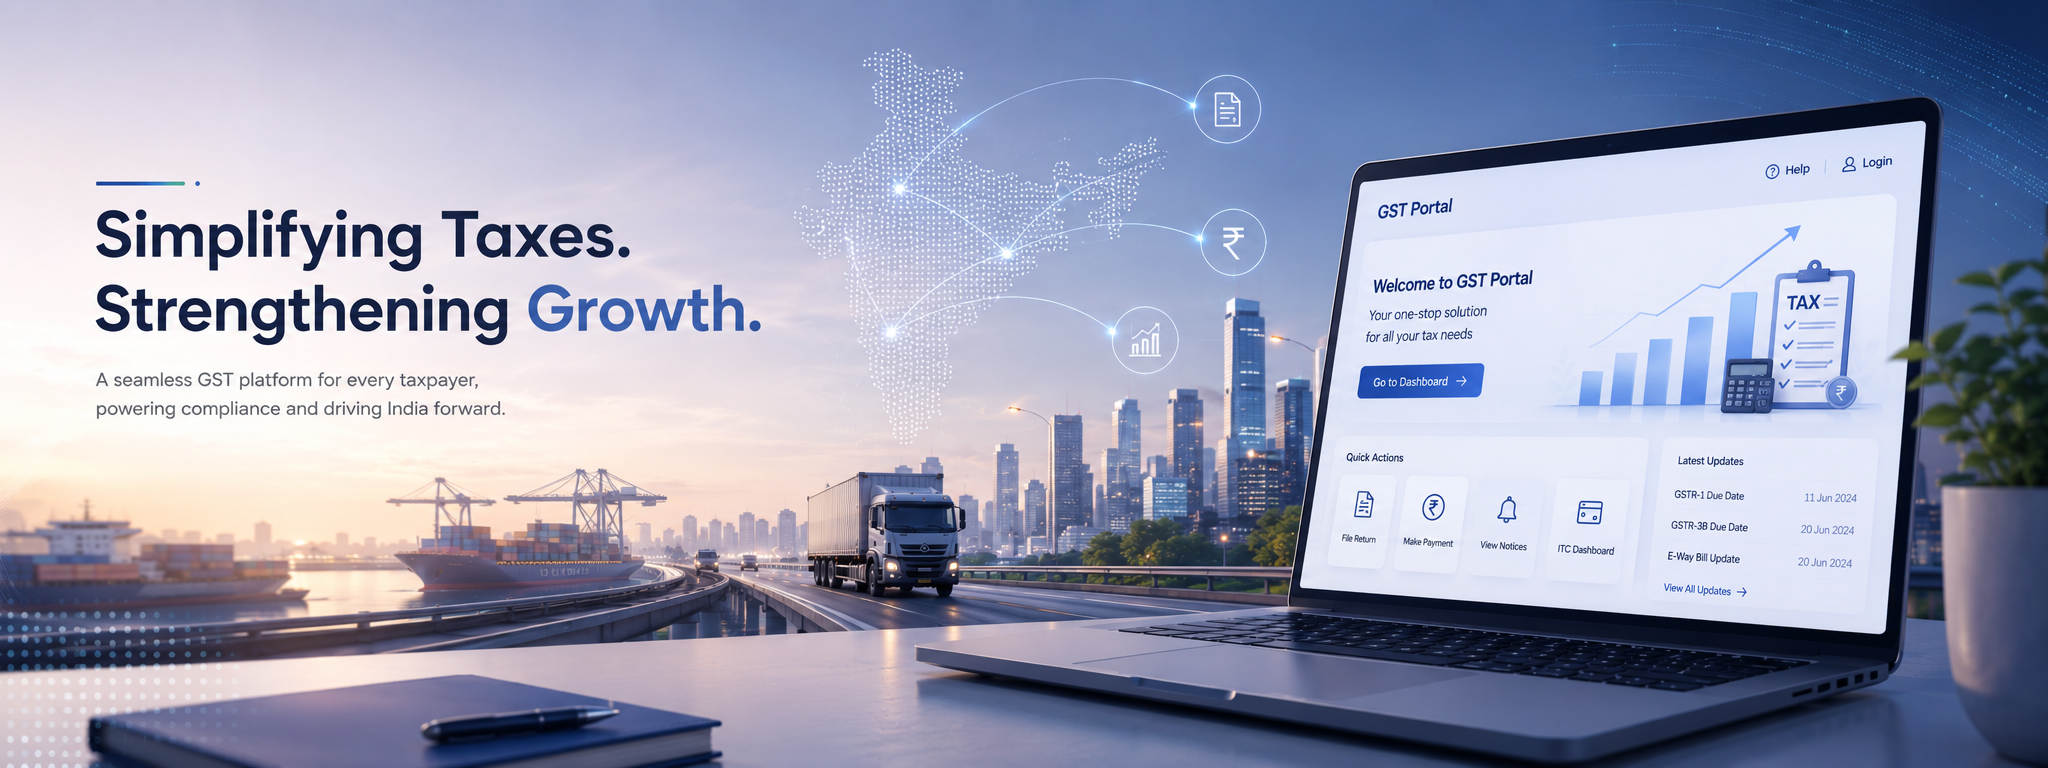
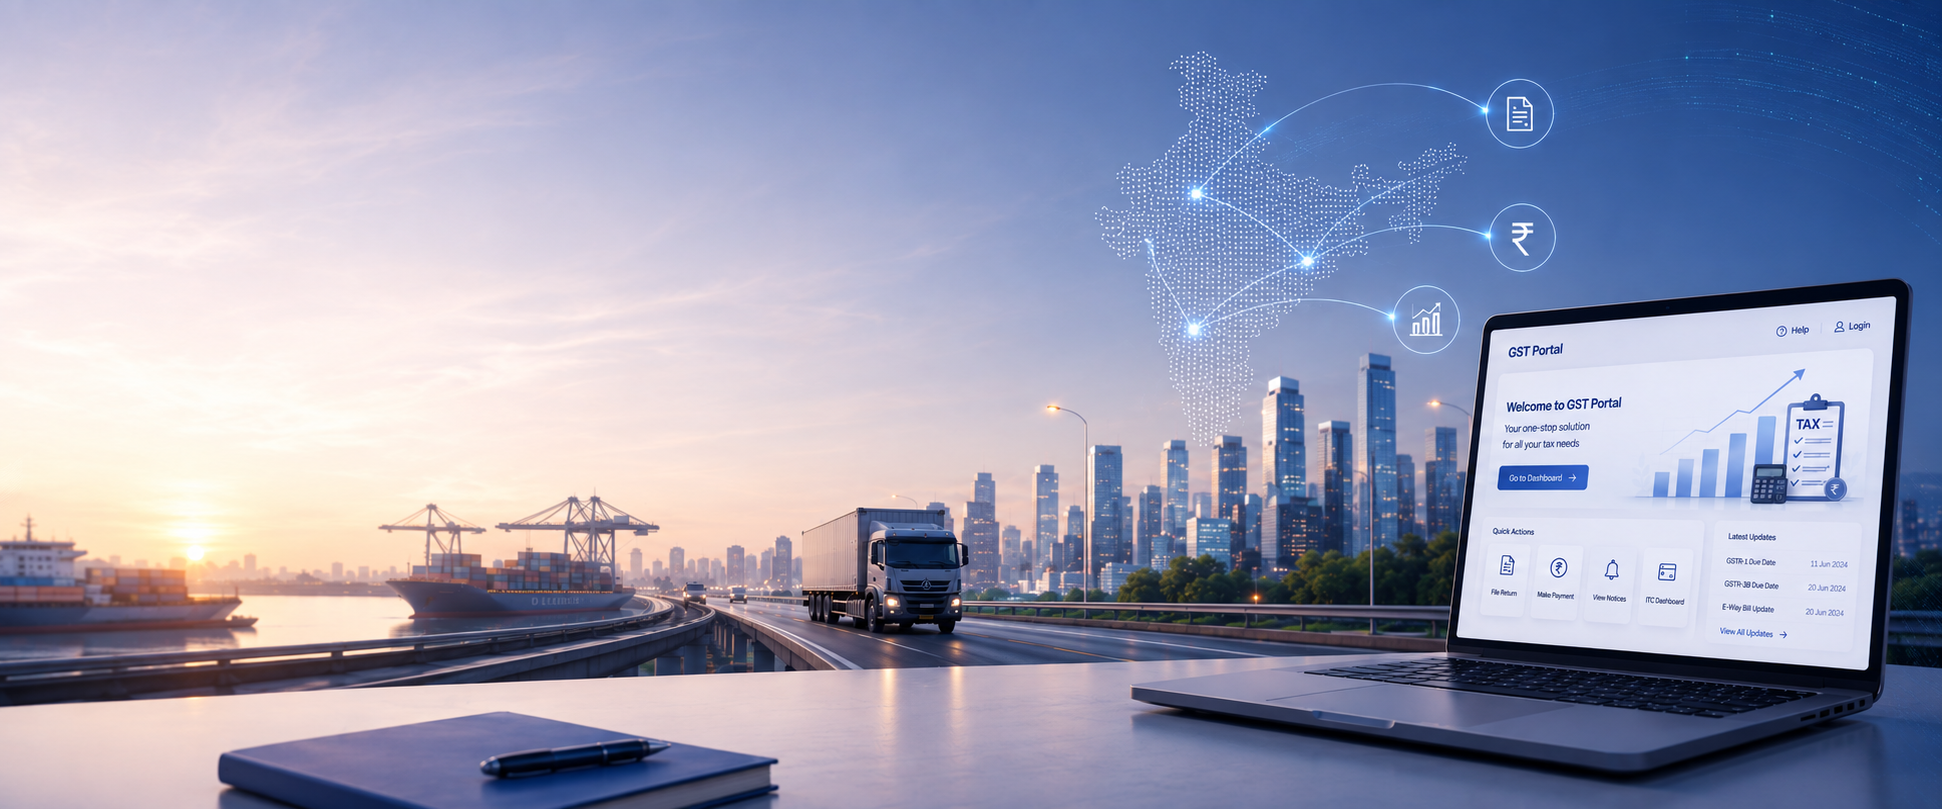
Add animation for copilot pulse effect and clean up unused code in components

diff --git a/frontend/src/pages/Gstr3bSimplified.jsx b/frontend/src/pages/Gstr3bSimplified.jsx
@@ -956,9 +956,6 @@ const Gstr3bSimplified = () => {
   return (
     <PageContainer>
       <div className="mx-auto max-w-7xl px-4 py-7 font-sans sm:px-6 lg:px-8">
-        {/* =========================================================
-            DEMO ENVIRONMENT NOTICE
-        ========================================================== */}
         <div className="mb-6 flex flex-col gap-2 border border-[#e8c980] bg-[#fff9e9] px-4 py-3 text-xs text-[#6d5200] sm:flex-row sm:items-center sm:justify-between">
           <div>
             <span className="mr-2 font-semibold uppercase tracking-[0.08em]">
@@ -975,23 +972,6 @@ const Gstr3bSimplified = () => {
             MOCK DATA ACTIVE
           </span>
         </div>
-
-        {/* =========================================================
-            PAGE HEADER
-        ========================================================== */}
-        {/* Catchy Demo Spin-up Banner Note */}
-        <div className="mb-5 flex flex-wrap items-center justify-between gap-3 rounded-lg border border-amber-200 bg-amber-50/90 px-4 py-2.5 text-xs text-amber-950 shadow-xs">
-          <div className="flex items-center gap-2.5">
-            <span className="flex h-2 w-2 rounded-full bg-amber-500 animate-ping" />
-            <p>
-              <strong className="font-semibold text-amber-950">💡 Demo Note:</strong> Refresh the page once if initial reconciliation loading takes a moment (happens sometimes during free cloud server spin-up).
-            </p>
-          </div>
-        </div>
-
-        {/* =========================================================
-            HEADER & ACTIONS
-        ========================================================== */}
         <header className="border-b border-line pb-6">
           <div className="flex flex-col gap-6 lg:flex-row lg:items-end lg:justify-between">
             <div>
@@ -1053,7 +1033,6 @@ const Gstr3bSimplified = () => {
           </div>
         </header>
 
-        {/* Prompt Card if Taxpayer Profile is Not Selected */}
         {!selectedPersonaGstin ? (
           <div className="mt-8 rounded-xl border border-dashed border-navy/25 bg-white p-10 text-center shadow-xs">
             <div className="mx-auto grid h-14 w-14 place-items-center rounded-full bg-navy/10 text-navy">
@@ -1076,9 +1055,6 @@ const Gstr3bSimplified = () => {
           </div>
         ) : (
           <>
-        {/* =========================================================
-            TAXPAYER SUMMARY
-        ========================================================== */}
         <section className="mt-6 border border-line bg-white">
           <div className="border-b border-line px-5 py-4 sm:px-6">
             <h2 className="text-sm font-semibold text-ink">
@@ -1159,9 +1135,6 @@ const Gstr3bSimplified = () => {
           </div>
         </section>
 
-        {/* =========================================================
-            KEY FIGURES
-        ========================================================== */}
         <section className="mt-6 grid border-y border-line bg-white sm:grid-cols-2 lg:grid-cols-4">
           <div className="border-b border-line px-5 py-5 sm:border-r lg:border-b-0">
             <p className="text-xs font-semibold uppercase tracking-[0.07em] text-muted">
@@ -1322,9 +1295,6 @@ const Gstr3bSimplified = () => {
           </div>
         </section>
 
-        {/* =========================================================
-            MISMATCH REVIEW
-        ========================================================== */}
         <section className="mt-8 border border-line bg-white">
           <div className="flex flex-col gap-4 border-b border-line px-5 py-5 sm:px-6 lg:flex-row lg:items-center lg:justify-between">
             <div>
@@ -1544,9 +1514,6 @@ const Gstr3bSimplified = () => {
           )}
         </section>
 
-        {/* =========================================================
-            RECONCILIATION REGISTER
-        ========================================================== */}
         <section className="mt-8 border border-line bg-white">
           <div className="flex flex-col gap-4 border-b border-line px-5 py-5 sm:px-6 lg:flex-row lg:items-center lg:justify-between">
             <div>
@@ -1772,9 +1739,6 @@ const Gstr3bSimplified = () => {
         </>
         )}
 
-        {/* =========================================================
-            UPLOAD MODAL
-        ========================================================== */}
         {isUploadDropzoneOpen && (
           <div
             className="fixed inset-0 z-50 flex items-center justify-center bg-slate-950/45 p-4"
@@ -1869,9 +1833,6 @@ const Gstr3bSimplified = () => {
           </div>
         )}
 
-        {/* =========================================================
-            PRE-FILING MODAL
-        ========================================================== */}
         {isPreFilingSummaryOpen && (
           <div
             className="fixed inset-0 z-50 flex items-center justify-center bg-slate-950/45 p-4"
@@ -2026,9 +1987,6 @@ const Gstr3bSimplified = () => {
           </div>
         )}
 
-        {/* =========================================================
-            FILING SUMMARY RECEIPT MODAL
-        ========================================================== */}
         {isReceiptModalOpen && (
           <div
             className="fixed inset-0 z-50 flex items-center justify-center bg-slate-950/50 p-4 backdrop-blur-xs"

diff --git a/frontend/src/components/CopilotHeroCard.jsx b/frontend/src/components/CopilotHeroCard.jsx
@@ -70,14 +70,15 @@ const CopilotHeroCard = () => {
         "
       >
         <div className="grid lg:grid-cols-[1.04fr_0.96fr]">
-          {}
+          { }
           <div className="p-5 sm:p-9 lg:p-10">
             <div className="flex items-center gap-2">
               <span className="relative flex h-5 w-5 items-center justify-center">
                 <span className="absolute h-2 w-2 rounded-full bg-navy" />
-                <span className="absolute h-5 w-5 rounded-full border border-navy/10" />
+                <span
+                  className="absolute h-5 w-5 rounded-full border border-navy/30 animate-copilot-pulse"
+                />
               </span>
-
               <span className="text-[10px] font-semibold uppercase tracking-[0.12em] text-muted">
                 GST Copilot
               </span>
@@ -157,7 +158,7 @@ const CopilotHeroCard = () => {
             </div>
           </div>
 
-          {}
+          { }
           <div className="bg-shell/55 p-5 sm:p-8 lg:p-10">
             <div className="flex h-full flex-col justify-center">
               <div>

diff --git a/frontend/src/components/Hero.jsx b/frontend/src/components/Hero.jsx
@@ -26,7 +26,7 @@ const Hero = () => {
         className="absolute inset-0 h-full w-full object-cover opacity-95"
       />
 
-      <div className="absolute inset-0 bg-gradient-to-r from-navy via-navy/95 to-navy/60" />
+      <div className="absolute inset-0 bg-gradient-to-r from-navy via-navy/90 to-navy/45" />
       <div className="absolute inset-0 bg-gradient-to-t from-navy via-transparent to-transparent" />
 
       <div className="relative mx-auto flex min-h-[390px] max-w-360 flex-col justify-center px-4 py-12 sm:min-h-[440px] sm:px-6 sm:py-20 lg:min-h-[560px] lg:px-6">

diff --git a/frontend/src/components/ChatbotWidget.jsx b/frontend/src/components/ChatbotWidget.jsx
@@ -688,21 +688,6 @@ const ChatbotWidget = () => {
           </span>
 
           <span>GST Copilot</span>
-
-          <span
-            className="
-              absolute
-              -right-1
-              -top-1
-              h-2.5
-              w-2.5
-              rounded-full
-              border-2
-              border-white
-              bg-amber
-            "
-            aria-hidden="true"
-          />
         </button>
       )}
 

diff --git a/frontend/src/styles.css b/frontend/src/styles.css
@@ -186,3 +186,20 @@ select:focus-visible {
     scroll-behavior: auto;
   }
 }
+
+@keyframes copilot-pulse {
+  0%,
+  100% {
+    transform: scale(0.85);
+    opacity: 0.5;
+  }
+
+  50% {
+    transform: scale(1.2);
+    opacity: 1;
+  }
+}
+
+.animate-copilot-pulse {
+  animation: copilot-pulse 2s ease-in-out infinite;
+}
